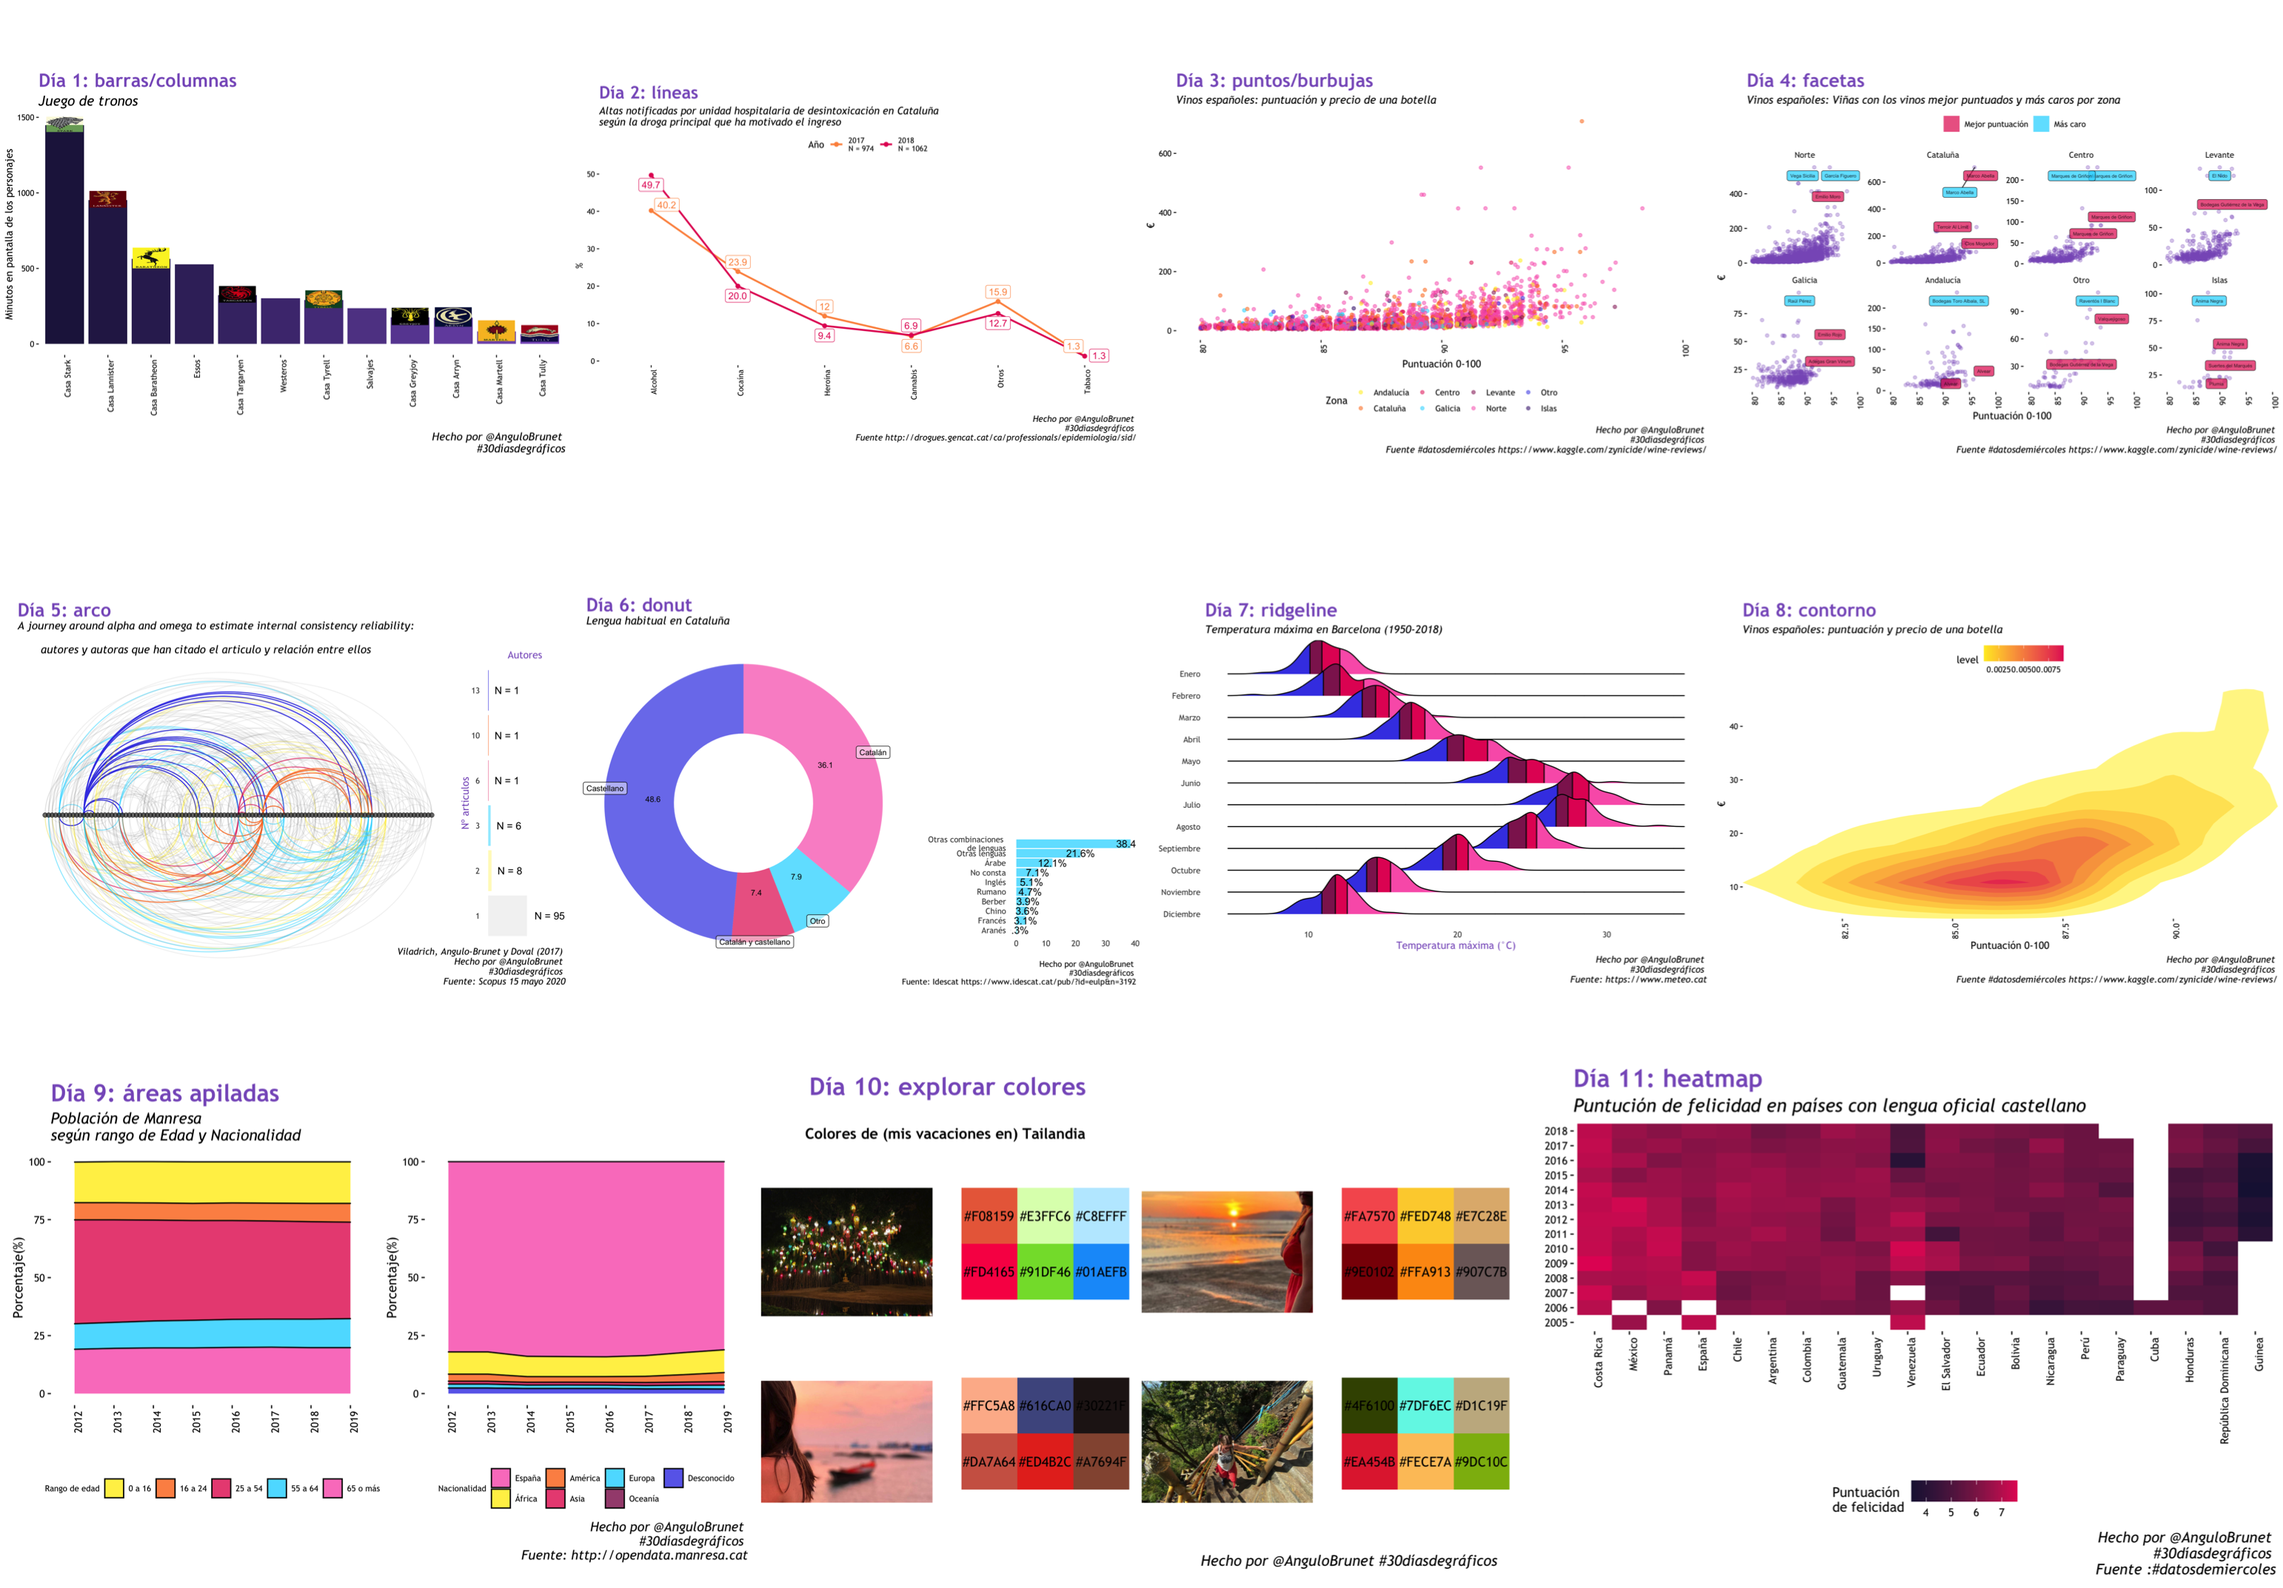
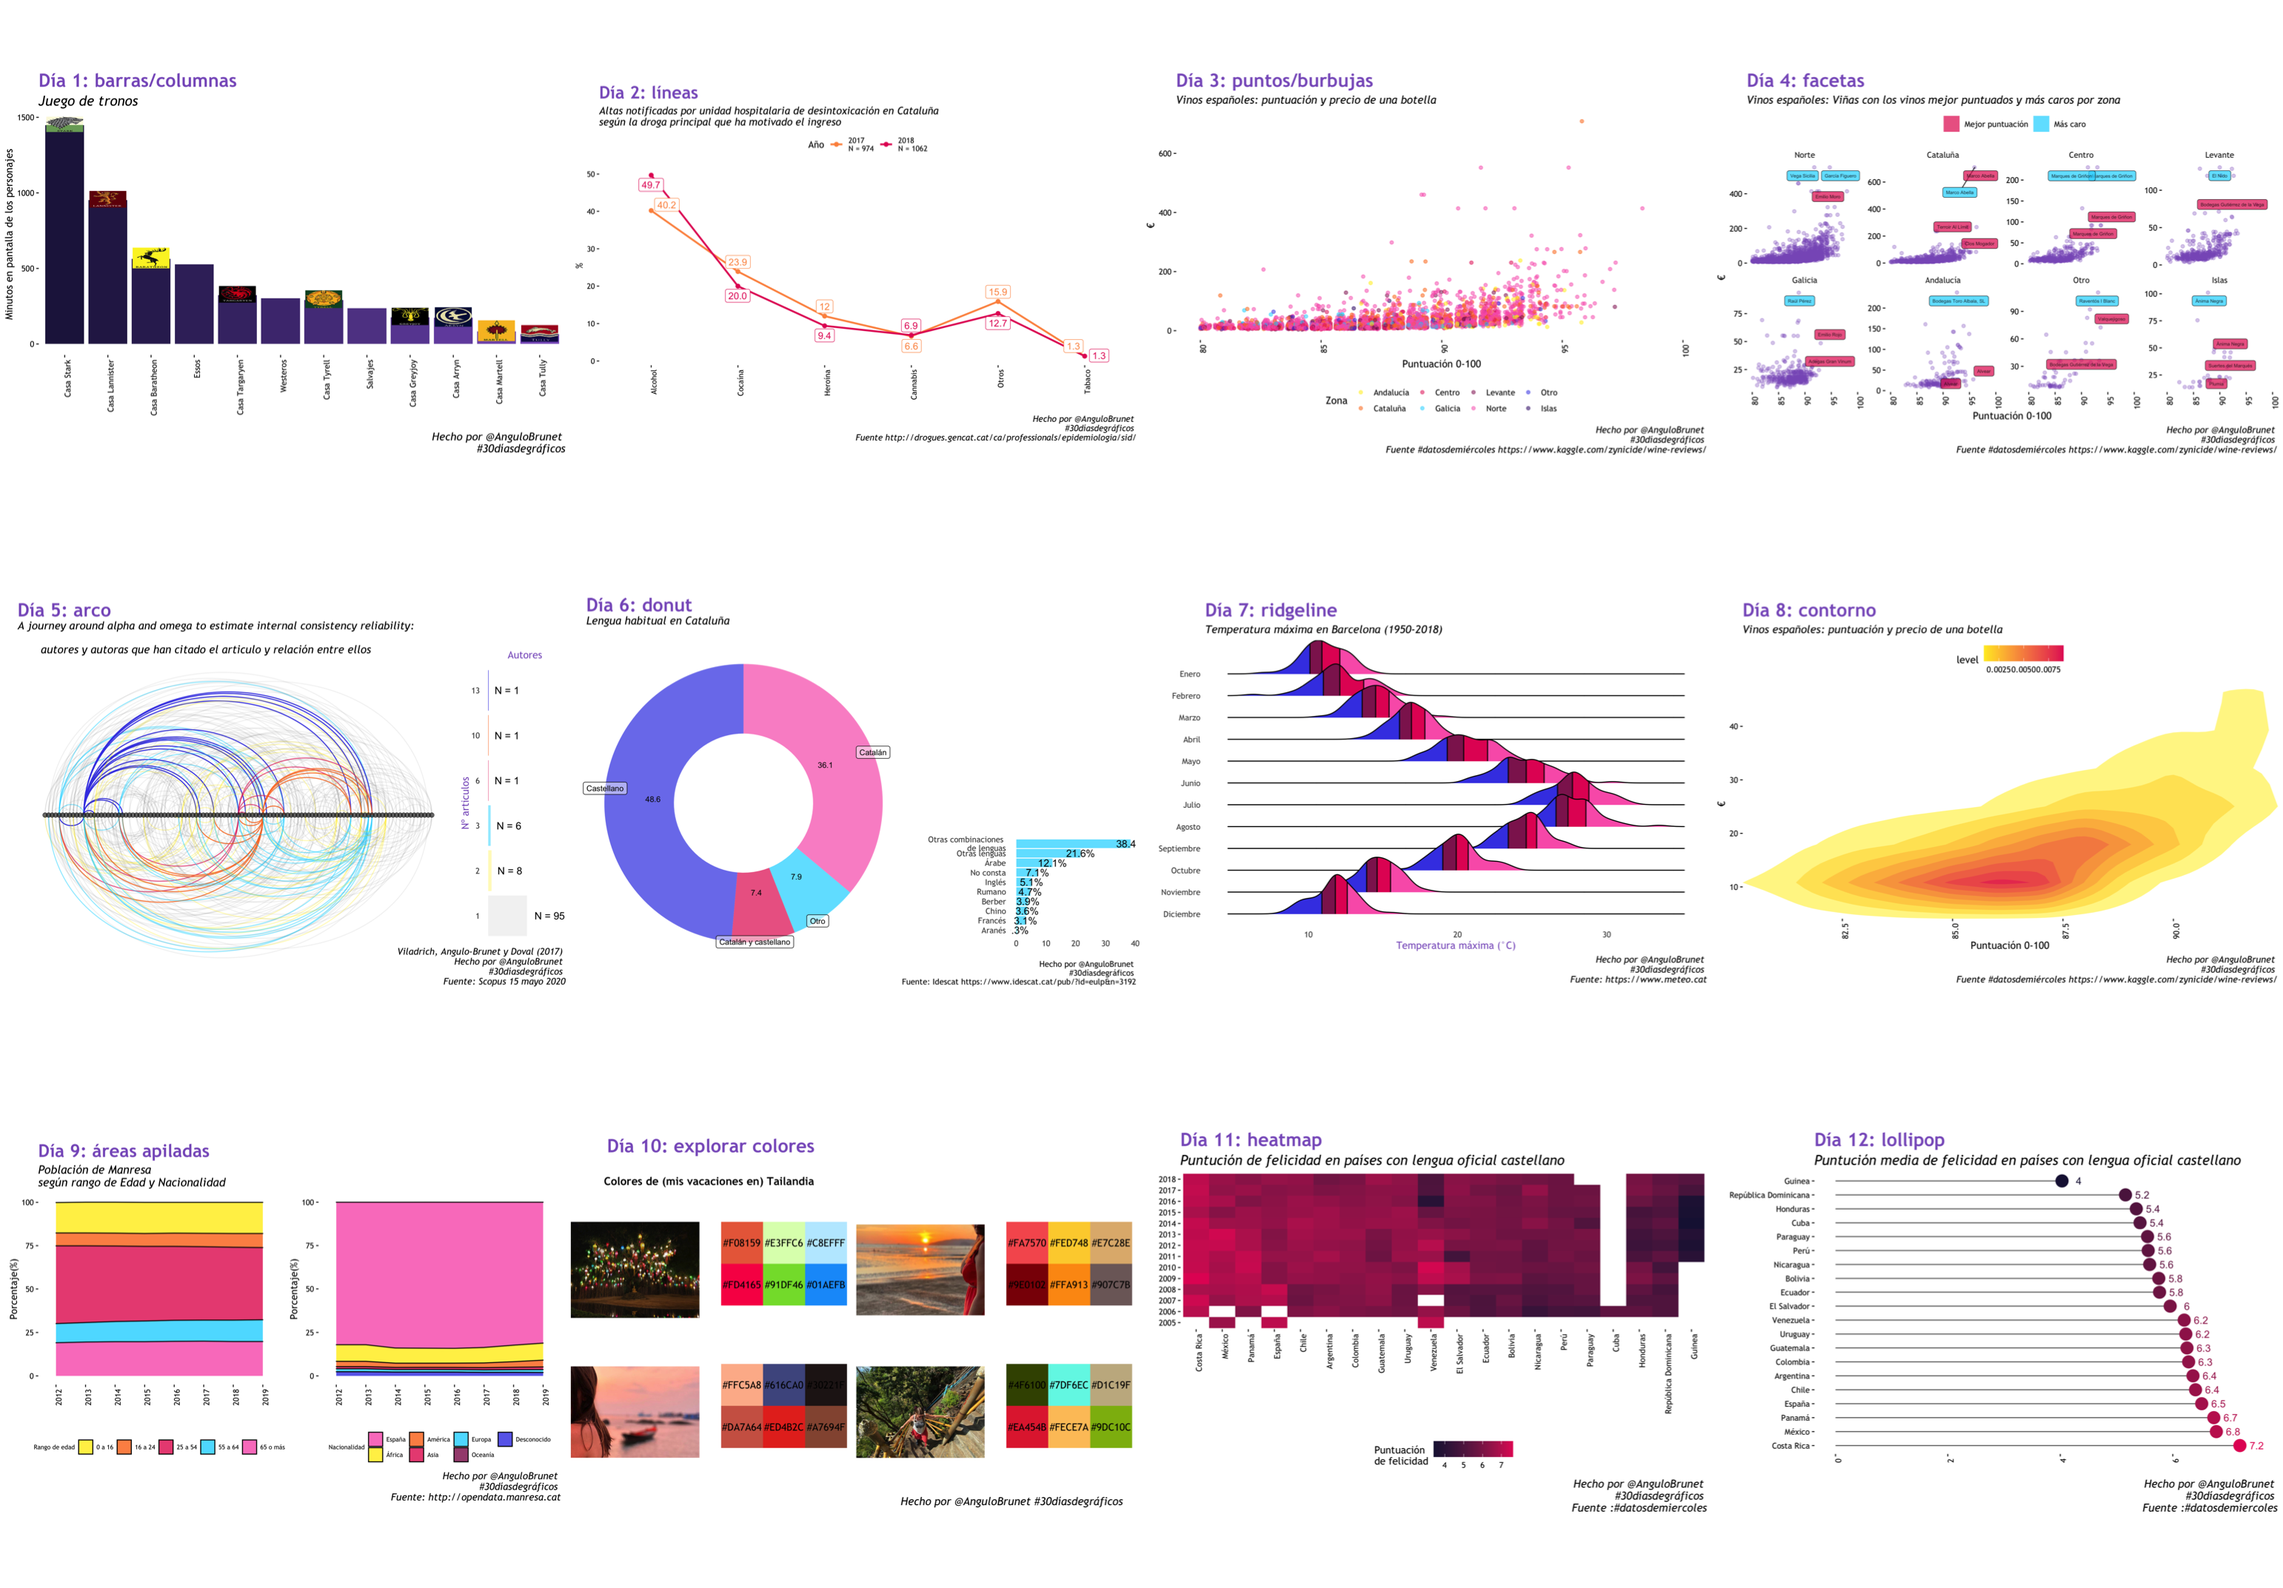
dia 12

Changed region(s): [[0.0, 0.6559, 0.9964, 0.9995], [0.685, 0.9058, 0.7473, 0.9683]]

diff --git a/00_30diasDeGraficos/README.md b/00_30diasDeGraficos/README.md
@@ -1,6 +1,11 @@
 
 
 
+![DAY12](https://github.com/AnguloB/datosdemiercoles/blob/master/00_30diasDeGraficos/12_lollipop/12_lollipop.png)
+
+
+ La sintaxis puede encontrarse [aqui](https://github.com/AnguloB/datosdemiercoles/blob/master/00_30diasDeGraficos/12_lollipop/12_lollipop.png)
+ 
 
 ![DAY11](https://github.com/AnguloB/datosdemiercoles/blob/master/00_30diasDeGraficos/11_heatmap/11_heatmap.png)
 
